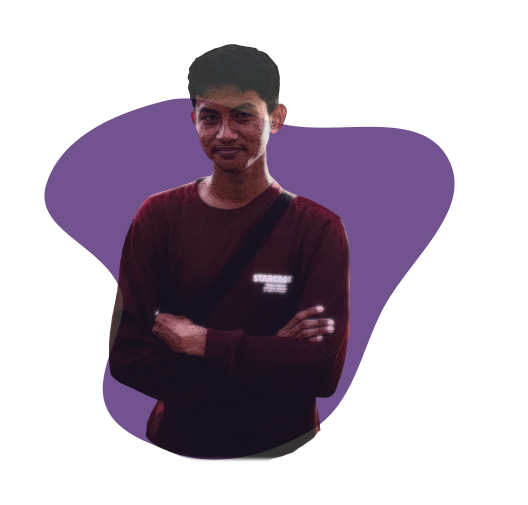
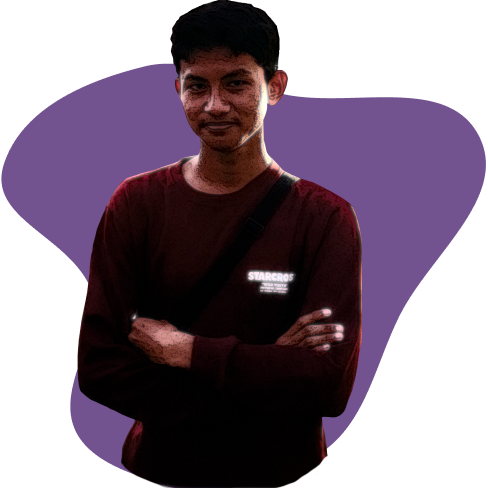
UPDATE: add navbar menu in mobile device

diff --git a/index.html b/index.html
@@ -10,12 +10,22 @@
     <body>
         <header>
             <nav>
+                <img src="asset/icon/hamburger.svg" alt="" width="50" class="hover-animation" />
                 <ul>
                     <li class="hover-animation"><a href="#home" class="link">Home</a></li>
                     <li class="hover-animation"><a href="#skill" class="link">Skill</a></li>
                     <li class="hover-animation"><a href="#academic" class="link">Academic</a></li>
                     <li class="hover-animation"><a href="#project" class="link">Project</a></li>
                     <input id="toggle" class="toggle rotate-in-2-cw" type="checkbox" checked />
+                </ul>
+            </nav>
+            <nav>
+                <ul>
+                    <li class="hover-animation"><a href="#home" class="link">Home</a></li>
+                    <li class="hover-animation"><a href="#skill" class="link">Skill</a></li>
+                    <li class="hover-animation"><a href="#academic" class="link">Academic</a></li>
+                    <li class="hover-animation"><a href="#project" class="link">Project</a></li>
+                    <input id="toggle-btn" class="toggle rotate-in-2-cw" type="checkbox" checked />
                 </ul>
             </nav>
         </header>
@@ -43,7 +53,15 @@
                 <div class="bg-hero"></div>
             </section>
             <section class="skill-section main-content" id="skill">
-                <h1 class="title-section">Skill</h1>
+                <h1 class="title-section hover-animation hover-animation">Skill</h1>
+                <nav class="hide-menu">
+                    <ul>
+                        <li class="hover-animation"><a href="#home">Home</a></li>
+                        <li class="hover-animation"><a href="#skill">Skill</a></li>
+                        <li class="hover-animation"><a href="#academic">Academic</a></li>
+                        <li class="hover-animation"><a href="#project">Project</a></li>
+                    </ul>
+                </nav>
                 <div class="container">
                     <div class="main-card">
                         <h1>Tools</h1>
@@ -113,7 +131,15 @@
                 <div class="bg-hero"></div>
             </section>
             <section class="academic-section main-content" id="academic">
-                <h1 class="title-section">Academic</h1>
+                <h1 class="title-section hover-animation">Academic</h1>
+                <nav class="hide-menu">
+                    <ul>
+                        <li class="hover-animation"><a href="#home">Home</a></li>
+                        <li class="hover-animation"><a href="#skill">Skill</a></li>
+                        <li class="hover-animation"><a href="#academic">Academic</a></li>
+                        <li class="hover-animation"><a href="#project">Project</a></li>
+                    </ul>
+                </nav>
                 <div class="training">
                     <h1>Training</h1>
                     <div class="cards">
@@ -174,7 +200,15 @@
                 <div class="bg-hero"></div>
             </section>
             <section class="project-section main-content" id="project">
-                <h1 class="title-section">Project</h1>
+                <h1 class="title-section hover-animation">Project</h1>
+                <nav class="hide-menu">
+                    <ul>
+                        <li class="hover-animation"><a href="#home">Home</a></li>
+                        <li class="hover-animation"><a href="#skill">Skill</a></li>
+                        <li class="hover-animation"><a href="#academic">Academic</a></li>
+                        <li class="hover-animation"><a href="#project">Project</a></li>
+                    </ul>
+                </nav>
                 <div class="cards">
                     <div class="card hover-animation shadow">
                         <img src="asset/project-1.png" alt="" />
@@ -212,7 +246,7 @@
                 <div class="bg-hero"></div>
             </section>
             <section class="competition-section main-content">
-                <h1 class="title-section">Competition</h1>
+                <h1 class="title-section hover-animation">Competition</h1>
                 <div class="cards">
                     <div class="card hover-animation shadow">
                         <img src="asset/icon/algorithm-icon.png" alt="" />

diff --git a/script.js b/script.js
@@ -1,11 +1,15 @@
 function lightMode() {
     $("body").addClass("light-mode");
     $("#toggle").css("animation", "none");
+    $(".hero-section .cta .social-media").css("filter", "invert(100%)");
+    $(".hero-section .picture img").css("opacity", "0.9");
 }
 
 function darkMode() {
     $("body").removeClass("light-mode");
     $("#toggle").css("animation", "rotate-in-2-cw 1s infinite");
+    $(".hero-section .cta .social-media").css("filter", "invert(0%)");
+    $(".hero-section .picture img").css("opacity", "0.7");
 }
 
 $("document").ready(function () {
@@ -19,36 +23,73 @@ $("document").ready(function () {
         }
     });
 
+    $("#toggle-btn").change(function () {
+        if ($("#toggle-btn").is(":checked")) {
+            darkMode();
+            $("#toggle-btn").css("color", "hsl(40, 100%, 50%)");
+        } else {
+            lightMode();
+            $("#toggle-btn").css("color", "var(--normal)");
+        }
+    });
+
+    // toggle menu in mobile version
+    $("header nav:first-child > img").click(function () {
+        $("header nav:last-child").toggleClass("active-nav");
+    });
+    $("header nav:last-child ul > *").click(function () {
+        $("header nav:last-child").toggleClass("active-nav");
+    });
+
+    //? show menu when hover title
+    $("h1.title-section").mouseenter(function (e) {
+        const target = this;
+        $("h1.title-section").each(function (index) {
+            if (this == target && $(window).width() >= 768) {
+                $("h1.title-section + nav").eq(index).css("display", "flex");
+                $("h1.title-section + nav").eq(index).addClass("slide-in-bottom");
+                $("h1.title-section + nav").eq(index).css("animation-duration", "0.5s");
+            }
+        });
+    });
+
+    $("h1.title-section + nav").mouseleave(function () {
+        $("h1.title-section + nav").css("display", "none");
+    });
+
+    //? show element when scrolling
+    $(document.body).on("touchmove", onScroll);
+    $(window).scroll(onScroll);
+});
+
+function onScroll() {
     let scrollPos = 500;
     const skill = $(".skill-section > h1.title-section");
     const academic = $(".academic-section > h1.title-section");
     const project = $(".project-section > h1.title-section");
     const competition = $(".competition-section > h1.title-section");
 
-    $(window).scroll(function () {
-        scrollPos = $(this).scrollTop();
+    scrollPos = $(this).scrollTop();
 
-        // skill
-        if (scrollPos + 1000 > skill.offset().top) {
-            showSkillSection();
-        }
-        // academic
-        if (scrollPos + 500 > academic.offset().top) {
-            showAcademicSection();
-        }
-        // academic
-        if (scrollPos + 500 > project.offset().top) {
-            showProjectSection();
-        }
-        // competition
-        if (scrollPos + 500 > competition.offset().top) {
-            showCompetitionSection();
-        }
-    });
-});
+    // skill
+    if (scrollPos + 1000 > skill.offset().top) {
+        showSkillSection();
+    }
+    // academic
+    if (scrollPos + 500 > academic.offset().top) {
+        showAcademicSection();
+    }
+    // academic
+    if (scrollPos + 500 > project.offset().top) {
+        showProjectSection();
+    }
+    // competition
+    if (scrollPos + 500 > competition.offset().top) {
+        showCompetitionSection();
+    }
+}
 
 function showHeroSection() {
-    console.log("hero");
     $(".bg-hero").eq(0).css("display", "none");
     $(".hero-section .cta").addClass("slide-in-left");
     $(".hero-section .picture").addClass("slide-in-right");

diff --git a/style/style.css b/style/style.css
@@ -35,6 +35,19 @@ header {
     margin-top: 1em;
 }
 
+header nav {
+    display: flex;
+    justify-content: center;
+}
+
+header nav:last-child {
+    display: none;
+}
+
+header nav > img {
+    display: none;
+}
+
 header nav ul {
     display: flex;
     justify-content: center;
@@ -224,6 +237,42 @@ header nav ul li a {
     }
     footer .menu .sub-menu a {
         font-size: 0.8em;
+    }
+}
+
+@media screen and (min-width: 0px) and (max-width: 460px) {
+    /*? header */
+
+    header nav img {
+        background-color: var(--primary);
+        padding: 0.5em;
+        box-sizing: border-box;
+        border-radius: 100%;
+        display: block;
+    }
+
+    header nav:first-child ul > * {
+        display: none;
+    }
+
+    header nav.active-nav {
+        background-color: var(--primary);
+        position: absolute;
+        top: 0;
+        left: 0;
+        width: 100vw;
+        height: 100vh;
+        z-index: 1;
+        display: flex;
+    }
+
+    header nav.active-nav > ul {
+        margin-top: -5em;
+        flex-direction: column;
+    }
+
+    header nav.active-nav ul li a {
+        color: var(--normal);
     }
 }
 

diff --git a/style/global.css b/style/global.css
@@ -5,8 +5,9 @@ h1.title-section {
     font-weight: bold;
     text-align: center;
     margin-bottom: 2em;
+    align-self: center;
+    width: fit-content;
 }
-
 h1.title-section::after {
     content: "";
     display: block;
@@ -15,6 +16,24 @@ h1.title-section::after {
     background-color: var(--bg-text);
     margin: auto;
     margin-top: -20px;
+}
+
+h1.title-section + nav {
+    position: absolute;
+    top: 15%;
+    width: 100%;
+    display: none;
+    justify-content: center;
+}
+
+h1.title-section + nav > ul {
+    display: flex;
+    gap: 1em;
+}
+
+h1.title-section + nav > ul > li a {
+    color: white;
+    text-decoration: none;
 }
 
 section.main-content {

diff --git a/style/hero.css b/style/hero.css
@@ -71,6 +71,7 @@
 .hero-section .cta .social-media {
     display: flex;
     gap: 1.5em;
+    transition: all 0.3s ease-in-out;
 }
 
 .hero-section .cta img {
@@ -84,5 +85,5 @@
 }
 .hero-section .picture img {
     width: 90%;
-    filter: brightness(85%);
+    transition: all 0.3s ease-in-out;
 }

diff --git a/style/competition.css b/style/competition.css
@@ -1,5 +1,7 @@
 .competition-section {
     position: relative;
+    display: flex;
+    flex-direction: column;
 }
 
 .competition-section > h1::after {

diff --git a/style/project.css b/style/project.css
@@ -1,5 +1,7 @@
 .project-section {
     position: relative;
+    display: flex;
+    flex-direction: column;
 }
 
 .project-section > h1::after {
